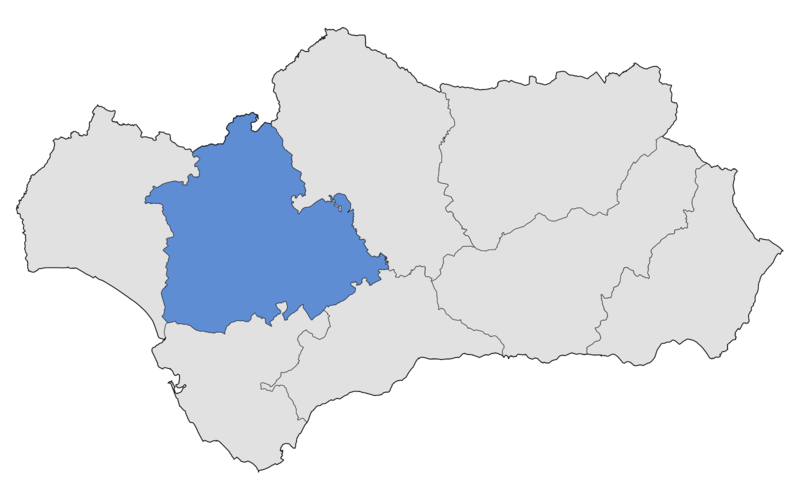
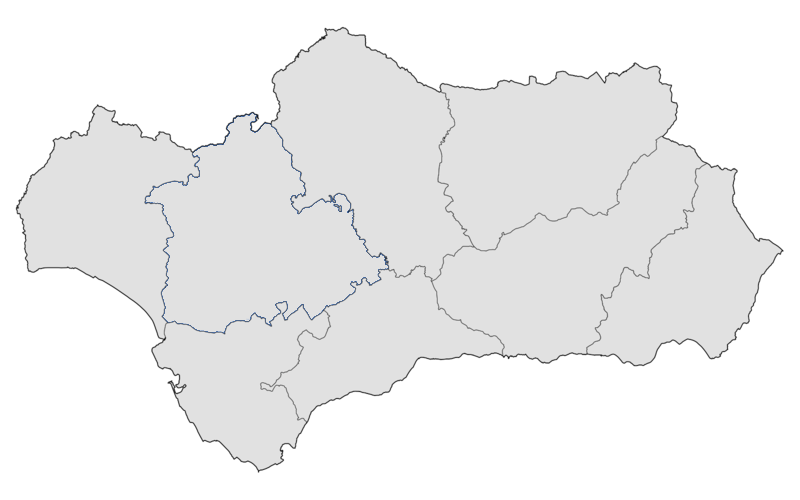
nombre ciudades completo

Changed region(s): [[0.1875, 0.21, 0.5, 0.69]]

diff --git a/assets/js/map.js b/assets/js/map.js
@@ -10,30 +10,21 @@ $(function(){
         });
     });
 
-    // Ocultamos la ventana modal del mapa de Andalucia.
+    // Ocultamos la ventana modal y el nombre de la ciudad del mapa de Andalucia.
     $('.close').click(function(){
         $(".modal").hide();
+        $("#nombreCiudad").hide();
     });
 
-    // Acciones para la provincia de Huelva.
-    $("#huelva").mousemove(function(e) {
-        // Un icono de ubicacion hace de cursor.
-        $("#sevillaimg").hide();
-        $("#huelvaimg").show();
-        $("#huelvaimg").css({
+    // Acciones a pasar el raton por las provincias.
+    $("area").mousemove(function(e) {
+        let elementId = $(this).attr("id");
+        let imagen = $("#nombreCiudad");
+        imagen.attr('src', 'assets/images/' + elementId + '.png');
+        imagen.show();
+        imagen.css({
             left: e.pageX,
             top: e.pageY
         });
     });
-
-    $("#sevilla").mousemove(function(e) {
-        // Un icono de ubicacion hace de cursor.
-        $("#huelvaimg").hide();
-        $("#sevillaimg").show();
-        $("#sevillaimg").css({
-            left: e.pageX,
-            top: e.pageY
-        });
-    });
-
 });

diff --git a/views/juegoPlay.php b/views/juegoPlay.php
@@ -12,7 +12,7 @@
    iframe {
     width: 100%;
    }
-   .top-secret {
+   .top-bar {
        position: absolute;
        width: 100%;
        height: 70px;
@@ -50,13 +50,7 @@
         text-decoration: none;
         cursor: pointer;
     }
-    #huelvaimg {
-        position: absolute;
-        text-align: center;
-        z-index: 2;
-        display: none;
-    }
-    #sevillaimg {
+    #nombreCiudad {
         position: absolute;
         text-align: center;
         z-index: 2;
@@ -64,24 +58,26 @@
     }
     </style>
 <body>
-<img id="huelvaimg" src="./assets/images/huelva.png" />
-<img id="sevillaimg" src="./assets/images/sevilla.png" />
-
-    <div class="top-secret"><p>Poner texto aquí</p></div>
+    <img class="nombreCiudad" id="nombreCiudad" src="" />
+    <div class="top-bar"><p>Poner texto aquí</p></div>
     <iframe src="https://www.google.com/maps/embed?pb=!4v1644151713282!6m8!1m7!1s7nKnS3WP_uqKco8zReKkhg!2m2!1d37.38233753430826!2d-5.996589215518552!3f77.35779408296617!4f30.100921247544704!5f0.7820865974627469" height="450" style="border:0;"></iframe>
     <button id="adivinar" type="button">Adivinar</button> 
-    <?php print_r($_SESSION['localizaciones']);?>   
+    <?php //print_r($_SESSION['localizaciones']);?>   
     <div class="modal">
         <div id="mapaAndalucia">
             <img src="assets/images/mapaAndalucia.png" alt="mapaAndalucia" usemap="#mapaAndalucia">
             <map name="mapaAndalucia">
-                <area id="huelva" shape="poly" coords="99,107,19,210,32,270,162,338,162,206,146,204,153,186,192,153,100,109,99,107" href="google.es">
-                <area id="sevilla" shape="poly" coords="166,324,385,267,343,193,301,213,292,198,304,193,271,124,253,115,229,129,193,155,188,183,156,196,180,234,169,313,166,324" href="google.es">
+                <area id="huelva" shape="poly" coords="99,107,19,210,32,270,162,338,162,206,146,204,153,186,192,153,100,109,99,107" href="#">
+                <area id="sevilla" shape="poly" coords="166,324,385,267,343,193,301,213,292,198,304,193,271,124,253,115,229,129,193,155,188,183,156,196,180,234,169,313,166,324" href="#">
+                <area id="cadiz" shape="poly" coords="169,326,204,441,264,465,307,423,268,382,326,311,169,326" href="#">
+                <area id="malaga" shape="poly" coords="306,410,495,351,495,335,444,308,425,267,328,310,320,336,283,386,306,410" href="#">
+                <area id="cordoba" shape="poly" coords="348,31,278,77,280,122,314,203,352,191,402,271,477,244,445,181,449,141,447,94,348,31" href="#">
+                <area id="jaen" shape="poly" coords="657,69,453,87,467,127,456,176,486,246,552,215,622,201,670,132,663,66,657,69" href="#">
+                <area id="granada" shape="poly" coords="502,249,592,218,630,202,669,139,712,163,653,269,633,268,591,350,512,355,511,337,451,305,446,279,502,249" href="#">
+                <area id="almeria" shape="poly" coords="714,357,780,251,709,167,690,227,251,275,625,275,594,350,714,357" href="#">
             </map>
             <span class="close">&times;</span>
         </div>
     </div>
 </body>
 </html>
-
-<!-- https://www.w3schools.com/html/html_images_imagemap.asp -->
